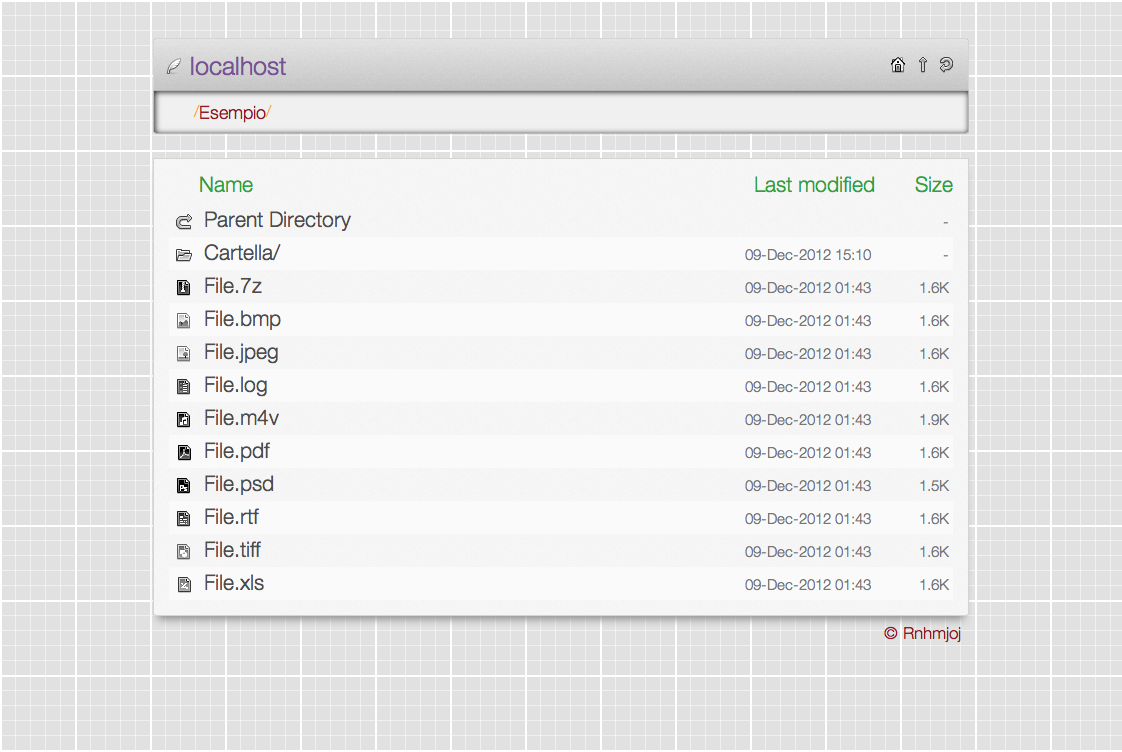
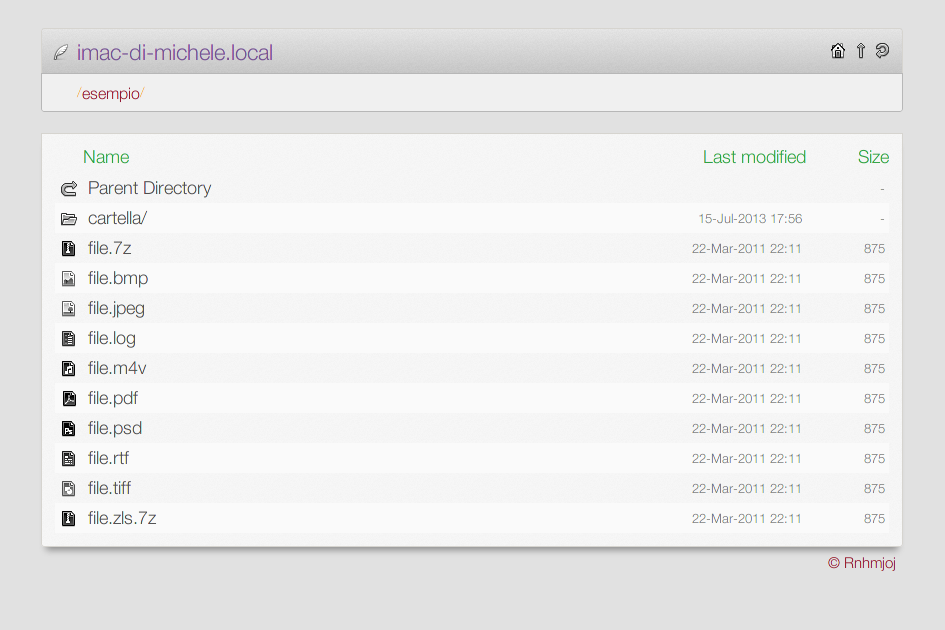
Aggiornamenti vari
* Rimosso sfondo a righe
* Rimosso ombra interna dell'header
* Aggiornato lo screeenshot
* Espansi i fogli di stile

diff --git a/Autoindex/Stile/Normale.css b/Autoindex/Stile/Normale.css
@@ -1,1 +1,198 @@
[1 lines of base64/hex data omitted]
+@font-face {
+	font-family:"HelveticaNeue-Light";
+	src:url(../Font/HelveticaNeue-Light.otf) format("opentype");
+	src:url(../Font/HelveticaNeue-Light.woff) format("woff");
+	font-weight:100;
+	letter-spacing:.05em;
+	line-height:1.3em;
+}
+
+::selection {
+	background-color:rgba(243,237,71,0.6);
+}
+
+body {
+	font-family:"HelveticaNeue-Light","Helvetica Neue Light","Helvetica",Arial,sans-serif;
+	font-size:1.2em;
+	background-color:#e1e1e1;
+	text-align:left;
+	color:#4d4d4d;
+	padding:2em 8em 8em;
+}
+
+#contenitore {
+	margin:auto;
+	max-width:68em;
+	display:none;
+}
+
+header {
+	background:linear-gradient(top,#f2f2f2 0%,#d0d0d0 99%);
+	border-width:1px 1px 0;
+	border-color:#d6d4cf;
+	border-style:solid;
+	line-height:2.5em;
+	padding-right:.5em;
+	padding-left:.5em;
+	border-radius:3px 3px 0 0;
+}
+
+img {
+	padding:.2em;
+	vertical-align:middle;
+}
+
+h1 {
+	font-weight:400;
+	font-size:1.3em;
+	color:#765394;
+	display:inline-block;
+	vertical-align:middle;
+}
+
+#home {
+	float:right;
+	padding-right:.1em;
+}
+
+#percorso {
+	background-color:#f0f0f0;
+	border:1px solid #b7b7b7;
+	border-radius:0 0 3px 3px;
+	font-size:.85em;
+	line-height:2.5em;
+	margin-bottom:1.5em;
+	padding-left:2.5em;
+	color:#f4ad50;
+}
+
+#percorso a:link,#percorso a:visited {
+	color:#92182b;
+	vertical-align:middle;
+	text-decoration:none;
+}
+
+#percorso a:hover {
+	color:inherit;
+}
+
+#refresh {
+	float:right;
+}
+
+#su {
+	float:right;
+}
+
+#file {
+	background-color:#fff;
+	padding:.8em;
+	border:#d6d4cf 1px solid;
+	border-radius:0 0 3px 3px;
+	box-shadow:0 8px 8px -5px #8a8a8a;
+}
+
+#file::before {
+	opacity:.3;
+}
+
+#file tr td img {
+	padding:.1em;
+}
+
+#file tr td {
+	padding:.3em;
+}
+
+#file table,#file tbody {
+	width:100%;
+}
+
+#file a:hover {
+	color:#f4ad50;
+}
+
+#footer {
+	color:#b9b7b3;
+	font-size:.7em;
+	text-align:right;
+}
+
+#footer a {
+	color:#b9b7b3;
+}
+
+#autore {
+	margin:.5em;
+	font-size:1.3em;
+	color:#92182b;
+}
+
+a,a:visited {
+	color:#4d4d4d;
+	font-size:1.1em;
+	font-weight:100;
+}
+
+a {
+	text-decoration:none;
+}
+
+a:link,a:hover,a:visited {
+	transition:color .3s ease;
+}
+
+.icona {
+	width:.5em;
+}
+
+.data {
+	text-align:right;
+	width:25%;
+}
+
+.data a {
+	color:#2fa242;
+}
+
+.nome {
+	padding-bottom:.5em;
+}
+
+.nome a {
+	color:#2fa242;
+}
+
+.dimensione {
+	text-align:right;
+	width:10%;
+	color:#2fa242;
+}
+
+.dimensione a {
+	color:#2fa242;
+}
+
+.riga {
+	color:#777;
+	font-size:.8em;
+	margin:.5em;
+	vertical-align:middle;
+}
+
+.rumore {
+	position:relative;
+	z-index:1;
+}
+
+.rumore:before {
+	content:"";
+	position:absolute;
+	z-index:-1;
+	top:0;
+	bottom:0;
+	left:0;
+	right:0;
+	opacity:.5;
[1 lines of base64/hex data omitted]
+}

diff --git a/Autoindex/Stile/Reset.css b/Autoindex/Stile/Reset.css
@@ -1,15 +1,78 @@
+html,body,div,span,object,iframe,h1,h2,h3,h4,h5,h6,p,blockquote,pre,abbr,address,cite,code,del,dfn,em,img,ins,kbd,q,samp,small,strong,sub,sup,var,b,i,dl,dt,dd,ol,ul,li,fieldset,form,label,legend,table,caption,tbody,tfoot,thead,tr,th,td,article,aside,canvas,details,figcaption,figure,footer,header,hgroup,menu,nav,section,summary,time,mark,audio,video {
+	margin:0;
+	padding:0;
+	border:0;
+	outline:0;
+	font-size:100%;
+	vertical-align:baseline;
+	background:transparent;
+}
 
-html,body,div,span,object,iframe,h1,h2,h3,h4,h5,h6,p,blockquote,pre,abbr,address,cite,code,del,dfn,em,img,ins,kbd,q,samp,small,strong,sub,sup,var,b,i,dl,dt,dd,ol,ul,li,fieldset,form,label,legend,table,caption,tbody,tfoot,thead,tr,th,td,article,aside,canvas,details,figcaption,figure,footer,header,hgroup,menu,nav,section,summary,time,mark,audio,video{margin:0;padding:0;border:0;outline:0;font-size:100%;vertical-align:baseline;background:transparent;}
-body{line-height:1;}
-article,aside,details,figcaption,figure,footer,header,hgroup,menu,nav,section{display:block;}
-nav ul{list-style:none;}
-blockquote,q{quotes:none;}
-blockquote:before,blockquote:after,q:before,q:after{content:'';content:none;}
-a{margin:0;padding:0;font-size:100%;vertical-align:baseline;background:transparent;}
-ins{background-color:#ff9;color:#000;text-decoration:none;}
-mark{color:inherit;background-color:transparent;font-size:inherit;}
-del{text-decoration:line-through;}
-abbr[title],dfn[title]{border-bottom:1px dotted;cursor:help;}
-table{border-collapse:collapse;border-spacing:0;}
-hr{display:block;height:1px;border:0;border-top:1px solid#cccccc;margin:1em 0;padding:0;}
-input,select{vertical-align:middle;-webkit-appearance: none;}
+body {
+	line-height:1;
+}
+
+article,aside,details,figcaption,figure,footer,header,hgroup,menu,nav,section {
+	display:block;
+}
+
+nav ul {
+	list-style:none;
+}
+
+blockquote,q {
+	quotes:none;
+}
+
+blockquote:before,blockquote:after,q:before,q:after {
+	content:'';
+	content:none;
+}
+
+a {
+	margin:0;
+	padding:0;
+	font-size:100%;
+	vertical-align:baseline;
+	background:transparent;
+}
+
+ins {
+	background-color:#ff9;
+	color:#000;
+	text-decoration:none;
+}
+
+mark {
+	color:inherit;
+	background-color:transparent;
+	font-size:inherit;
+}
+
+del {
+	text-decoration:line-through;
+}
+
+abbr[title],dfn[title] {
+	border-bottom:1px dotted;
+	cursor:help;
+}
+
+table {
+	border-collapse:collapse;
+	border-spacing:0;
+}
+
+hr {
+	display:block;
+	height:1px;
+	border:0;
+	border-top:1px solid#cccccc;
+	margin:1em 0;
+	padding:0;
+}
+
+input,select {
+	vertical-align:middle;
+	-webkit-appearance:none;
+}

diff --git a/README.md b/README.md
@@ -9,7 +9,7 @@ Un tema minimale per il directory listing dei webserver Apache.
 Richiede che sia abilitato il modulo autoindex e la configurazione tramite virtual hosts o htaccess.
 
 ### Anteprima
-Per avere un idea di come si presenta ecco uno [screenshot](https://raw.github.com/Rnhmjoj/Minimal-Autoindex/master/Screenshot.png).
+![screenshot](https://raw.github.com/Rnhmjoj/Minimal-Autoindex/master/Screenshot.png).
 	
 ### Istruzioni
 Assicurasi che nel file httpd.conf sia abilitato il modulo Autoindex.
